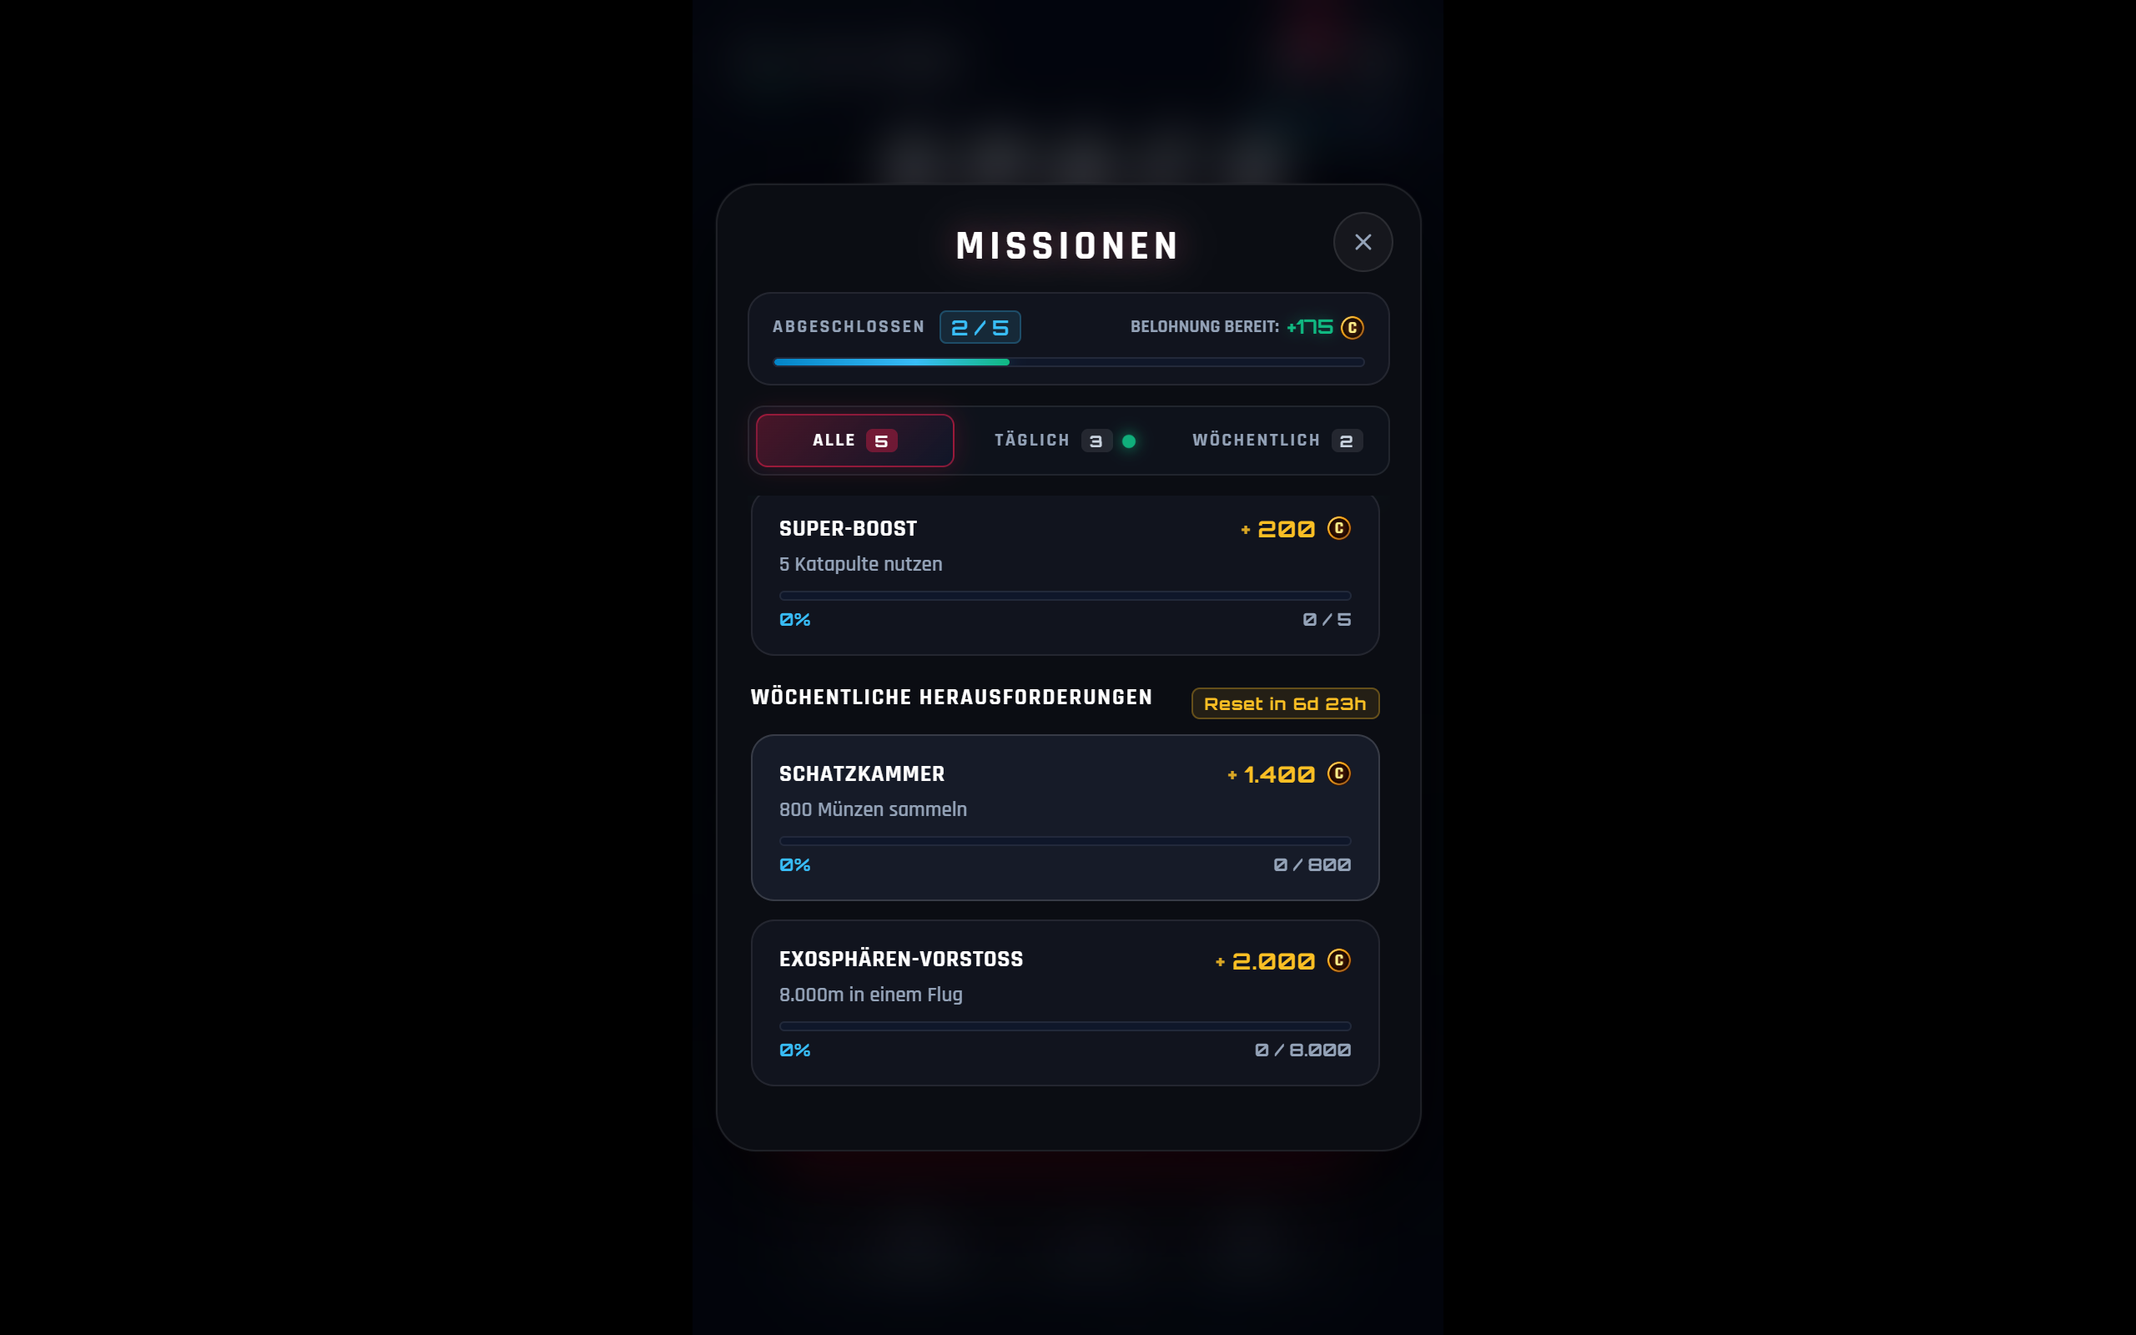
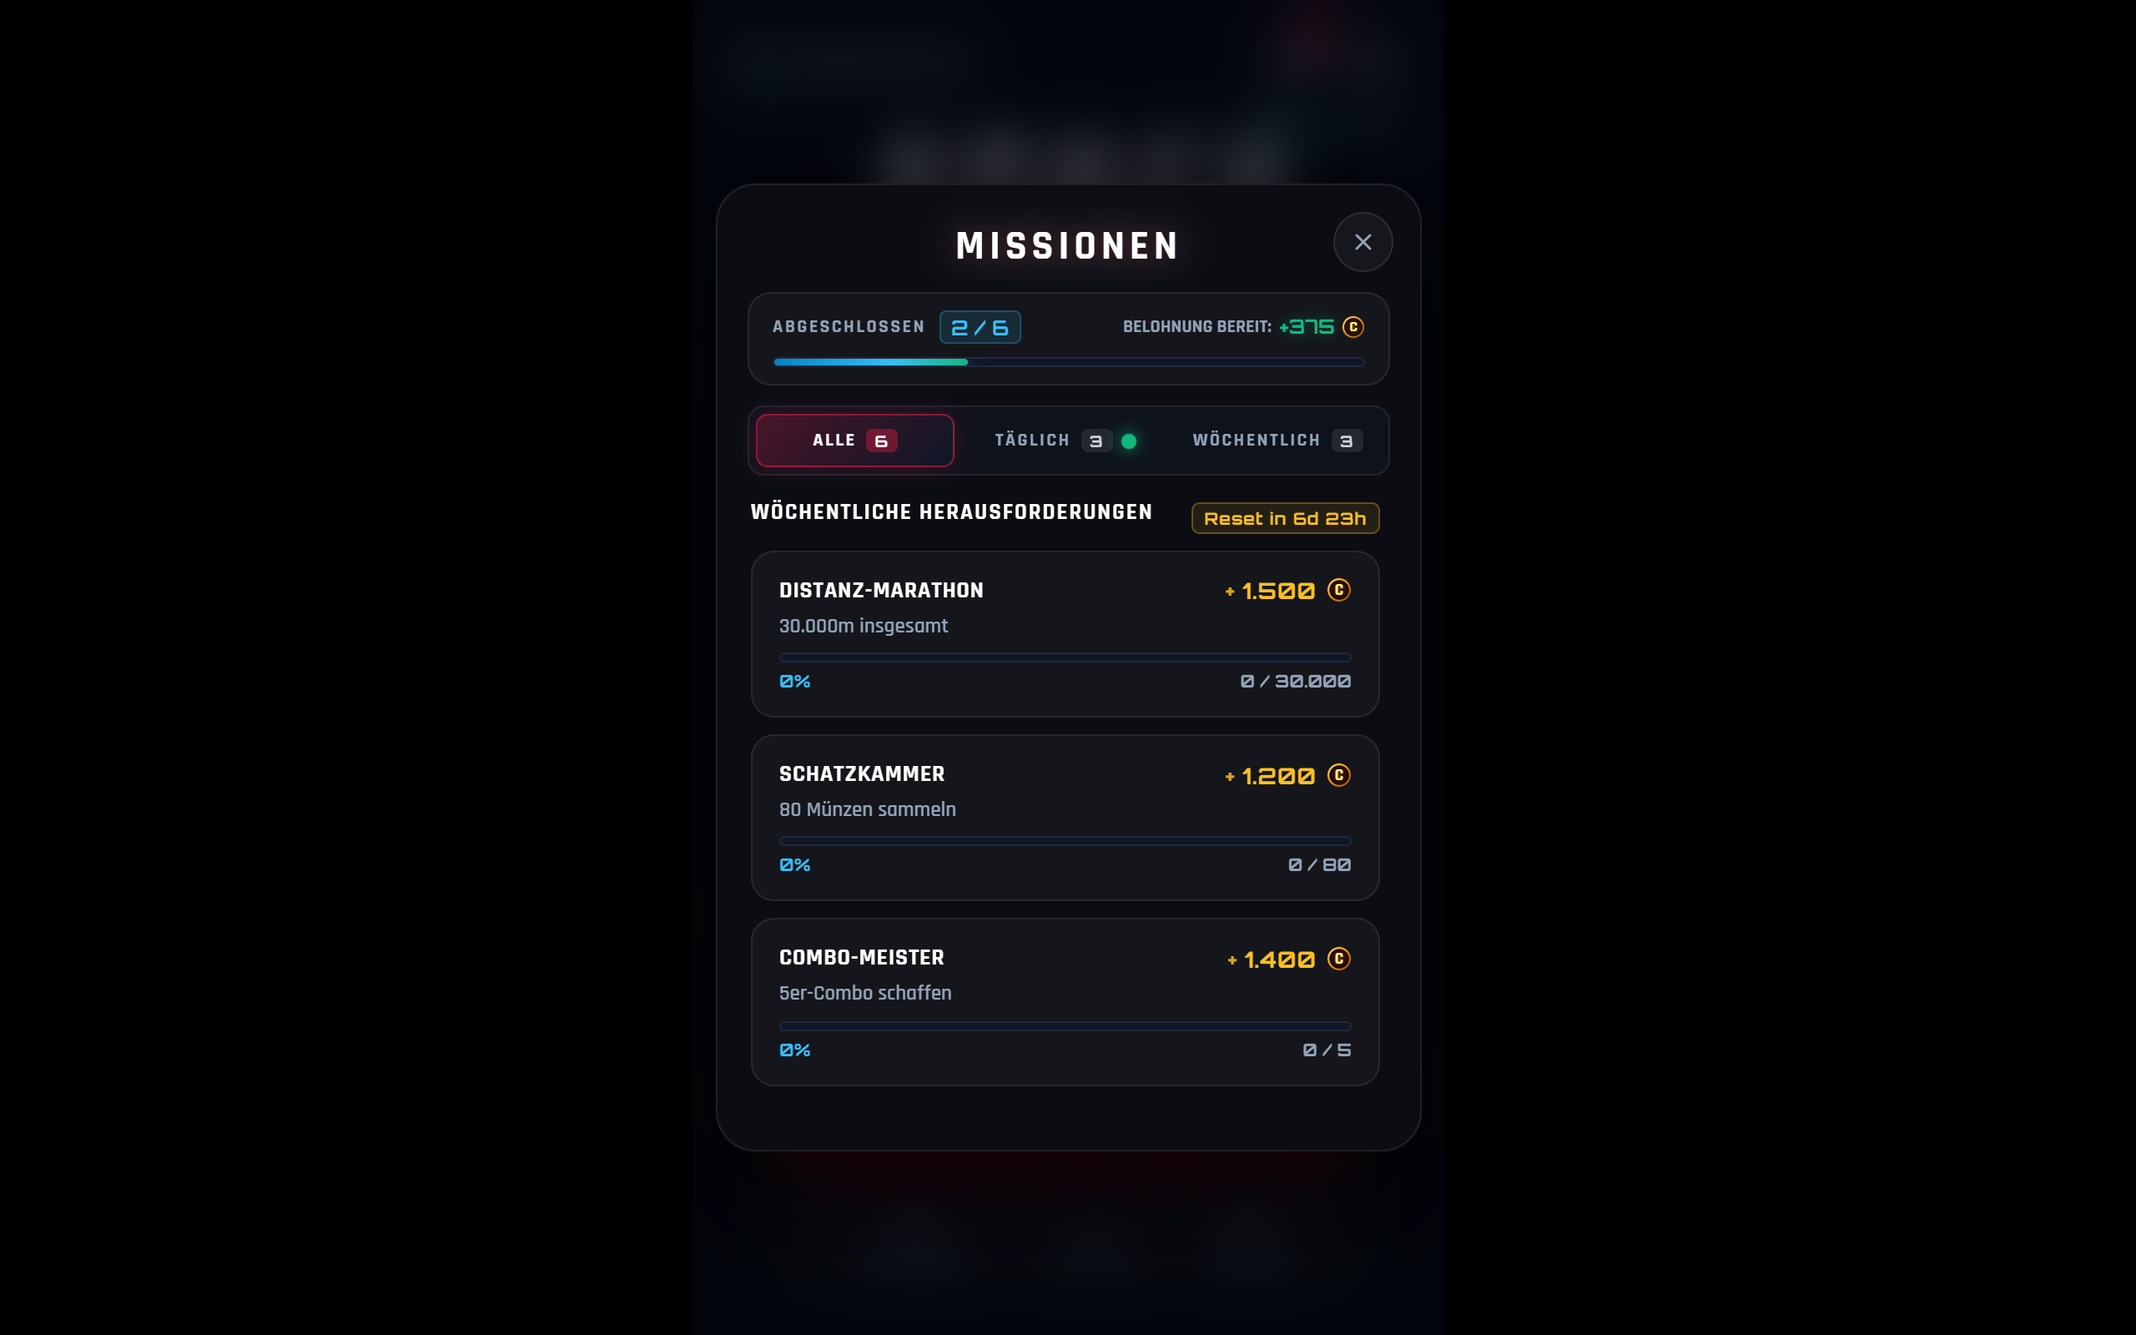
Update daily & weekly mission goals and engine tracking (v5.16.6)

diff --git a/js/config/Constants.js b/js/config/Constants.js
@@ -136,97 +136,61 @@ const CONSTANTS = {
   // Tägliche Aufgaben (Dailies - 24h Reset)
   DAILY_QUEST_POOL: [
     {
-      id: 'daily_reach_350',
+      id: 'daily_reach_3000',
       title: 'HÖHEN-SPRINT',
-      description: '600m in einem Flug',
-      target: 600,
+      description: '3.000m in einem Flug',
+      target: 3000,
       type: 'altitude_single',
-      reward: 150,
-      category: 'daily'
-    },
-    {
-      id: 'daily_collect_12',
-      title: 'MÜNZ-SAMMLER',
-      description: '16 Münzen sammeln',
-      target: 16,
-      type: 'cores_single',
-      reward: 175,
-      category: 'daily'
-    },
-    {
-      id: 'daily_boost_3',
-      title: 'SUPER-BOOST',
-      description: '5 Katapulte nutzen',
-      target: 5,
-      type: 'boost_single',
       reward: 200,
       category: 'daily'
     },
     {
-      id: 'daily_slingshots_20',
-      title: 'FLUG-TRAINING',
-      description: '45 Sprünge ausführen',
-      target: 45,
-      type: 'slingshot_cumulative',
+      id: 'daily_collect_25',
+      title: 'MÜNZ-SAMMLER',
+      description: '25 Münzen sammeln',
+      target: 25,
+      type: 'cores_cumulative',
       reward: 175,
       category: 'daily'
     },
     {
-      id: 'daily_near_miss_3',
-      title: 'KNAPPE RETTUNG',
-      description: '5x vor Abgrund retten',
+      id: 'daily_boost_5',
+      title: 'SUPER-BOOST',
+      description: '5 Katapulte nutzen',
       target: 5,
-      type: 'near_miss_cumulative',
-      reward: 225,
+      type: 'boost_cumulative',
+      reward: 200,
       category: 'daily'
     }
   ],
 
-  // Wöchentliche Herausforderungen (Weeklies - 7 Tage Reset: ~2-2.5h aktive Spielzeit nötig)
+  // Wöchentliche Herausforderungen (Weeklies - 7 Tage Reset)
   WEEKLY_QUEST_POOL: [
     {
-      id: 'weekly_altitude_150k',
-      title: 'KOSMISCHER MARATHON',
-      description: '150.000m Gesamtdistanz',
-      target: 150000,
+      id: 'weekly_altitude_30k',
+      title: 'DISTANZ-MARATHON',
+      description: '30.000m insgesamt',
+      target: 30000,
       type: 'altitude_cumulative',
       reward: 1500,
       category: 'weekly'
     },
     {
-      id: 'weekly_cores_800',
+      id: 'weekly_cores_80',
       title: 'SCHATZKAMMER',
-      description: '800 Münzen sammeln',
-      target: 800,
+      description: '80 Münzen sammeln',
+      target: 80,
       type: 'cores_cumulative',
+      reward: 1200,
+      category: 'weekly'
+    },
+    {
+      id: 'weekly_combo_5',
+      title: 'COMBO-MEISTER',
+      description: '5er-Combo schaffen',
+      target: 5,
+      type: 'combo_single',
       reward: 1400,
-      category: 'weekly'
-    },
-    {
-      id: 'weekly_slingshots_1500',
-      title: 'ORBITAL-MEISTER',
-      description: '1.500 Sprünge ausführen',
-      target: 1500,
-      type: 'slingshot_cumulative',
-      reward: 1600,
-      category: 'weekly'
-    },
-    {
-      id: 'weekly_reach_8000_single',
-      title: 'EXOSPHÄREN-VORSTOSS',
-      description: '8.000m in einem Flug',
-      target: 8000,
-      type: 'altitude_single',
-      reward: 2000,
-      category: 'weekly'
-    },
-    {
-      id: 'weekly_near_miss_60',
-      title: 'REFLEX-AKROBAT',
-      description: '60 knappe Rettungen',
-      target: 60,
-      type: 'near_miss_cumulative',
-      reward: 1500,
       category: 'weekly'
     }
   ],

diff --git a/scripts/playwright_runner.js b/scripts/playwright_runner.js
@@ -123,8 +123,8 @@ async function runPlaywrightSuite() {
   // Set 1 unclaimed quest so the new separated badge counter is verified on the main menu
   await page.evaluate(() => {
     if (window._gameEngine) {
-      window._gameEngine.storage.data.questProgress['daily_reach_350'] = 600;
-      window._gameEngine.storage.data.activeDailyQuestIds = ['daily_reach_350', 'daily_collect_12', 'daily_boost_3'];
+      window._gameEngine.storage.data.questProgress['daily_reach_3000'] = 3000;
+      window._gameEngine.storage.data.activeDailyQuestIds = ['daily_reach_3000', 'daily_collect_25', 'daily_boost_5'];
       window._gameEngine.storage.data.claimedQuestIds = [];
       window._gameEngine.storage.save();
       window._gameEngine.ui.updateUnclaimedBadges();
@@ -185,13 +185,13 @@ async function runPlaywrightSuite() {
   }
 
   // 5. Aufgaben (Direct Quests Button)
-  if (shouldCapture('05_hub_quests.png') || shouldCapture('05b_hub_quests_claimed.png') || shouldCapture('05c_hub_quests_scrolled.png')) {
+  if (shouldCapture('05_hub_quests.png') || shouldCapture('05b_hub_quests_claimed.png') || shouldCapture('05c_hub_quests_scrolled.png') || shouldCapture('05d_hub_quests_tab_weekly.png') || shouldCapture('05e_hub_quests_tab_daily.png')) {
     console.log('[Playwright] Preparing ready-to-claim quest...');
     await page.evaluate(() => {
       if (window._gameEngine) {
-        window._gameEngine.storage.data.questProgress['daily_reach_350'] = 600;
-        window._gameEngine.storage.data.questProgress['daily_collect_12'] = 16;
-        window._gameEngine.storage.data.activeDailyQuestIds = ['daily_reach_350', 'daily_collect_12', 'daily_boost_3'];
+        window._gameEngine.storage.data.questProgress['daily_reach_3000'] = 3000;
+        window._gameEngine.storage.data.questProgress['daily_collect_25'] = 25;
+        window._gameEngine.storage.data.activeDailyQuestIds = ['daily_reach_3000', 'daily_collect_25', 'daily_boost_5'];
         window._gameEngine.storage.data.claimedQuestIds = [];
         window._gameEngine.storage.save();
         window._gameEngine.ui.updateUnclaimedBadges();
@@ -235,6 +235,19 @@ async function runPlaywrightSuite() {
       await sleep(350);
       console.log('[Playwright] Capturing 05d_hub_quests_tab_weekly.png');
       await captureScreenshot(page, '05d_hub_quests_tab_weekly.png', 'Quests Weekly Tab Filter');
+    }
+
+    if (shouldCapture('05e_hub_quests_tab_daily.png')) {
+      console.log('[Playwright] Testing #tab-missions-daily click...');
+      await page.click('#tab-missions-daily');
+      await sleep(200);
+      await page.evaluate(() => {
+        const scrollArea = document.querySelector('.quests-scroll-area');
+        if (scrollArea) scrollArea.scrollTop = 120;
+      });
+      await sleep(250);
+      console.log('[Playwright] Capturing 05e_hub_quests_tab_daily.png');
+      await captureScreenshot(page, '05e_hub_quests_tab_daily.png', 'Quests Daily Tab Filter Scrolled');
     }
 
     await page.click('#btn-quests-close');

diff --git a/js/services/StorageService.js b/js/services/StorageService.js
@@ -49,8 +49,8 @@ class StorageService {
       // Daily & Weekly Mission System
       dailyResetTimestamp: 0,
       weeklyResetTimestamp: 0,
-      activeDailyQuestIds: ['daily_reach_350', 'daily_collect_12', 'daily_boost_3'],
-      activeWeeklyQuestIds: ['weekly_altitude_8000', 'weekly_cores_100'],
+      activeDailyQuestIds: ['daily_reach_3000', 'daily_collect_25', 'daily_boost_5'],
+      activeWeeklyQuestIds: ['weekly_altitude_30k', 'weekly_cores_80', 'weekly_combo_5'],
       claimedQuestIds: [], // Quests whose rewards have been actively claimed
       questProgress: {},
       completedQuestCount: 0,
@@ -136,11 +136,13 @@ class StorageService {
     if (!Array.isArray(merged.notifiedUpgradeIds)) {
       merged.notifiedUpgradeIds = [];
     }
-    if (!Array.isArray(merged.activeDailyQuestIds) || merged.activeDailyQuestIds.length === 0) {
-      merged.activeDailyQuestIds = ['daily_reach_350', 'daily_collect_12', 'daily_boost_3'];
+    const validDailyIds = ['daily_reach_3000', 'daily_collect_25', 'daily_boost_5'];
+    if (!Array.isArray(merged.activeDailyQuestIds) || merged.activeDailyQuestIds.length === 0 || !merged.activeDailyQuestIds.every(id => validDailyIds.includes(id))) {
+      merged.activeDailyQuestIds = ['daily_reach_3000', 'daily_collect_25', 'daily_boost_5'];
     }
-    if (!Array.isArray(merged.activeWeeklyQuestIds) || merged.activeWeeklyQuestIds.length === 0) {
-      merged.activeWeeklyQuestIds = ['weekly_altitude_8000', 'weekly_cores_100'];
+    const validWeeklyIds = ['weekly_altitude_30k', 'weekly_cores_80', 'weekly_combo_5'];
+    if (!Array.isArray(merged.activeWeeklyQuestIds) || merged.activeWeeklyQuestIds.length < 3 || !merged.activeWeeklyQuestIds.every(id => validWeeklyIds.includes(id))) {
+      merged.activeWeeklyQuestIds = ['weekly_altitude_30k', 'weekly_cores_80', 'weekly_combo_5'];
     }
     if (!Array.isArray(merged.claimedQuestIds)) {
       merged.claimedQuestIds = [];

diff --git a/index.html b/index.html
@@ -534,7 +534,7 @@
         <div class="missions-filter-tabs" role="tablist">
           <button class="missions-tab-btn active" id="tab-missions-all" data-tab="all" type="button">
             <span class="tab-label">ALLE</span>
-            <span class="tab-count-badge" id="badge-count-all">5</span>
+            <span class="tab-count-badge" id="badge-count-all">6</span>
           </button>
           <button class="missions-tab-btn" id="tab-missions-daily" data-tab="daily" type="button">
             <span class="tab-label">TÄGLICH</span>
@@ -543,7 +543,7 @@
           </button>
           <button class="missions-tab-btn" id="tab-missions-weekly" data-tab="weekly" type="button">
             <span class="tab-label">WÖCHENTLICH</span>
-            <span class="tab-count-badge" id="badge-count-weekly">2</span>
+            <span class="tab-count-badge" id="badge-count-weekly">3</span>
             <span class="tab-alert-dot" id="dot-unclaimed-weekly" style="display:none;"></span>
           </button>
         </div>

diff --git a/js/engine/MissionManager.js b/js/engine/MissionManager.js
@@ -56,7 +56,7 @@ class MissionManager {
     this.storage.data.weeklyResetTimestamp = nextReset;
     const pool = CONSTANTS.WEEKLY_QUEST_POOL || CONSTANTS.QUEST_POOL;
     const shuffled = [...pool].sort(() => 0.5 - Math.random());
-    const selected = shuffled.slice(0, 2).map(q => q.id);
+    const selected = shuffled.slice(0, 3).map(q => q.id);
 
     this.storage.data.activeWeeklyQuestIds = selected;
 
@@ -209,6 +209,16 @@ class MissionManager {
     for (const quest of this.getAllActiveQuests()) {
       if (quest.type === 'boost_single') {
         this.checkAndProgress(quest.id, this.runBoosts, true);
+      } else if (quest.type === 'boost_cumulative') {
+        this.checkAndProgress(quest.id, 1, false);
+      }
+    }
+  }
+
+  onCombo(comboLevel) {
+    for (const quest of this.getAllActiveQuests()) {
+      if (quest.type === 'combo_single') {
+        this.checkAndProgress(quest.id, comboLevel, true);
       }
     }
   }

diff --git a/js/engine/GameEngine.js b/js/engine/GameEngine.js
@@ -381,6 +381,7 @@ class GameEngine {
               this.triggerScreenShake(Math.min(4, this.slingshotCombo - 2));
             }
             this.storage.updateBestCombo(this.slingshotCombo);
+            if (this.missions) this.missions.onCombo(this.slingshotCombo);
           } else {
             // Normal release resets combo - smooth flight with zero shake
             this.slingshotCombo = 0;

diff --git a/GAME_STATUS.md b/GAME_STATUS.md
@@ -1,6 +1,6 @@
 # Sling Jump - Offizieller Spielstand & Historische Projekt-Dokumentation
 
-> **Status:** Release Candidate (v5.16.5 - Mission Overview & Quest Cards Floating-Dock Background Parity)  
+> **Status:** Release Candidate (v5.16.6 - Updated Daily & Weekly Mission Objectives)  
 > **Permanenter Live-Link (24/7):** [`https://bauerjohannes2-max.github.io/sling-jump/`](https://bauerjohannes2-max.github.io/sling-jump/)  
 > **Repository:** [`https://github.com/bauerjohannes2-max/sling-jump`](https://github.com/bauerjohannes2-max/sling-jump)  
 > **Hosting:** GitHub Pages Global Edge CDN (SSL/HTTPS, PWA Offline Support)  
@@ -34,6 +34,25 @@
 | **Zone 7: Meister-Kosmos** | 14.000 m+ | 16% | 2% | 30% | 44% | 8% | ~10% | 250 – 320 px | 74% dynamische Knoten, maximale Reach |
 
 ## 3. Chronologische Release-Historie
+
+### v5.16.6 (06.09.2026) - Updated Daily & Weekly Mission Objectives
+- **Neue Missionsziele (kurz, prägnant, commercial minimalism):**
+  - **Täglich (3 Quests):**
+    1. `3.000m in einem Flug` (`altitude_single`, Ziel: 3.000m, Belohnung: 200)
+    2. `25 Münzen sammeln` (`cores_cumulative`, Ziel: 25, Belohnung: 175)
+    3. `5 Katapulte nutzen` (`boost_cumulative`, Ziel: 5, Belohnung: 200)
+  - **Wöchentlich (3 Quests):**
+    1. `30.000m insgesamt` (`altitude_cumulative`, Ziel: 30.000m, Belohnung: 1.500)
+    2. `80 Münzen sammeln` (`cores_cumulative`, Ziel: 80, Belohnung: 1.200)
+    3. `5er-Combo schaffen` (`combo_single`, Ziel: 5, Belohnung: 1.400)
+- **Engine-Erweiterungen (`MissionManager.js`, `GameEngine.js`, `StorageService.js`):**
+  - `onCombo(comboLevel)` in `MissionManager` implementiert und an `GameEngine` Launch-Callback angebunden.
+  - `boost_cumulative` Unterstützung in `onSuperBoostUsed()` für kumulative Katapult-Nutzung hinzugefügt.
+  - `rotateWeeklyQuests` auf 3 simultane Wochen-Herausforderungen skaliert.
+  - Tab-Badges (`ALLE: 6`, `TÄGLICH: 3`, `WÖCHENTLICH: 3`) in `index.html` und `UIManager` synchronisiert.
+  - Schema-Migration in `StorageService` für unterbrechungsfreie Aktualisierung bestehender Spielstände implementiert.
+- **Automatisierte Verifikation:**
+  - Playwright Visual Runner (`05_hub_quests`, `05c_hub_quests_scrolled`, `05d_hub_quests_tab_weekly`, `05e_hub_quests_tab_daily`) mit 0 Konsolenfehlern validiert.
 
 ### v5.16.5 (06.09.2026) - Mission Overview & Quest Cards Floating-Dock Background Parity
 - **100% Farb- und Materialharmonisierung mit Hauptmenü-Dock (`style.css`):**

diff --git a/screenshots/LATEST_RUN.md b/screenshots/LATEST_RUN.md
@@ -1,18 +1,17 @@
 # Playwright Visual Verification Report
-> **Laufzeit:** 6.9.2026, 19:53:05  
-> **Modus:** Selektiv (`05_hub_quests, 05b_hub_quests_claimed`)  
+> **Laufzeit:** 6.9.2026, 19:59:36  
+> **Modus:** Selektiv (`05e_hub_quests_tab_daily`)  
 > **Status:** BESTANDEN (0 Konsolenfehler)  
-> **Frisch erfasste Screenshots in diesem Lauf:** 2  
+> **Frisch erfasste Screenshots in diesem Lauf:** 1  
 > **Garantierte Frische:** Alle unten aufgeführten Dateien wurden in diesem Testlauf frisch erzeugt.
 
 ### Frisch erfasste Screenshots
 | Datei | Zweck | Uhrzeit | Dateigröße | SHA-256 Prüfsumme |
 | :--- | :--- | :--- | :--- | :--- |
-| `05_hub_quests.png` | Quests Active | 19:53:03 | 377 KB | `c24d9b2850a4e2cd` |
-| `05b_hub_quests_claimed.png` | Quests Claimed | 19:53:04 | 288 KB | `88b77999d45753c2` |
+| `05e_hub_quests_tab_daily.png` | Quests Daily Tab Filter Scrolled | 19:59:36 | 339 KB | `d5e202d979f4b737` |
 
 
-### Gesamter Screenshot-Bestand (21 Dateien)
+### Gesamter Screenshot-Bestand (22 Dateien)
 | Datei | Letzte Erfassung | Dateigröße |
 | :--- | :--- | :--- |
 | `06_hub_stats.png` | 23:45:04 | 269 KB |
@@ -32,7 +31,8 @@
 | `12_mobile_skins.png` | 19:10:41 | 22 KB |
 | `14_dashboard_locked.png` | 19:10:43 | 45 KB |
 | `14b_dashboard_unlocked.png` | 19:10:44 | 202 KB |
-| `05c_hub_quests_scrolled.png` | 19:34:38 | 197 KB |
-| `05d_hub_quests_tab_weekly.png` | 19:34:39 | 183 KB |
-| `05_hub_quests.png` | 19:53:03 | 377 KB |
 | `05b_hub_quests_claimed.png` | 19:53:04 | 288 KB |
+| `05_hub_quests.png` | 19:58:29 | 378 KB |
+| `05c_hub_quests_scrolled.png` | 19:58:30 | 195 KB |
+| `05d_hub_quests_tab_weekly.png` | 19:58:31 | 195 KB |
+| `05e_hub_quests_tab_daily.png` | 19:59:36 | 339 KB |

diff --git a/GAME_SYSTEMS.md b/GAME_SYSTEMS.md
@@ -87,8 +87,18 @@ Procedural generation (`WorldManager.js`) scales density, node types, and lethal
 - **Themes:** `deep_space` (default), `cyber_grid`, `solar_flare`.
 
 ### 5.2 Quests (Missions)
-- **Daily Quests:** 3 active per 24h reset cycle (e.g. reach 350m, collect 12 credits, perform 3 boosts). Reward: 15–30 Credits.
-- **Weekly Quests:** 2 active per 7-day reset cycle (e.g. 8,000m cumulative altitude, 100 credits). Reward: 75–150 Credits + 1 Spark.
+- **Daily Quests (3 active per 24h cycle):**
+  1. `3.000m in einem Flug` (`altitude_single`, target: 3000, reward: 200 Credits)
+  2. `25 Münzen sammeln` (`cores_cumulative`, target: 25, reward: 175 Credits)
+  3. `5 Katapulte nutzen` (`boost_cumulative`, target: 5, reward: 200 Credits)
+- **Weekly Quests (3 active per 7-day cycle):**
+  1. `30.000m insgesamt` (`altitude_cumulative`, target: 30000, reward: 1500 Credits)
+  2. `80 Münzen sammeln` (`cores_cumulative`, target: 80, reward: 1200 Credits)
+  3. `5er-Combo schaffen` (`combo_single`, target: 5, reward: 1400 Credits)
+- **Tracking Engines:**
+  - `MissionManager.onCombo(comboLevel)` hooked directly into `GameEngine.js` launch callback.
+  - `MissionManager.onSuperBoostUsed()` tracks both single-run and cumulative catapult launches.
+  - `MissionManager.onRunFinished(totalAltitude)` accumulates lifetime meters into weekly marathon objectives.
 
 ---
 
